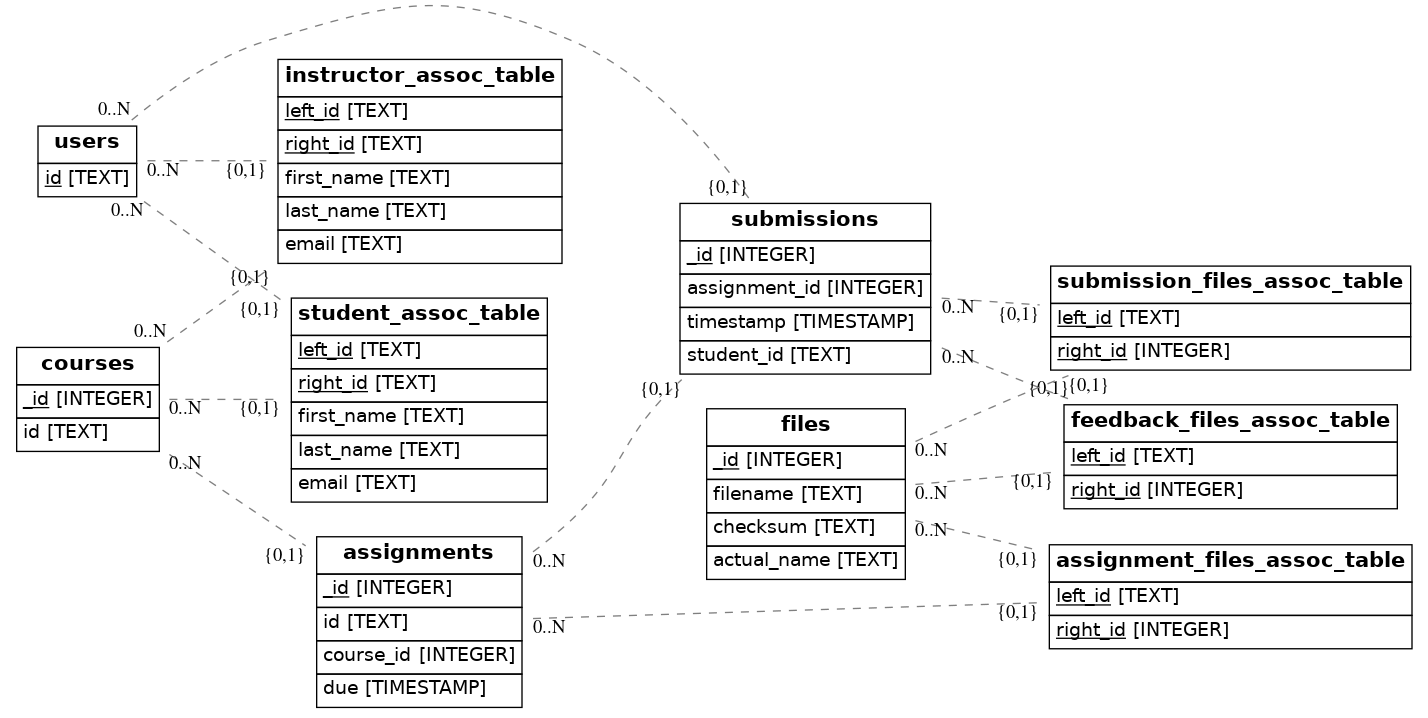
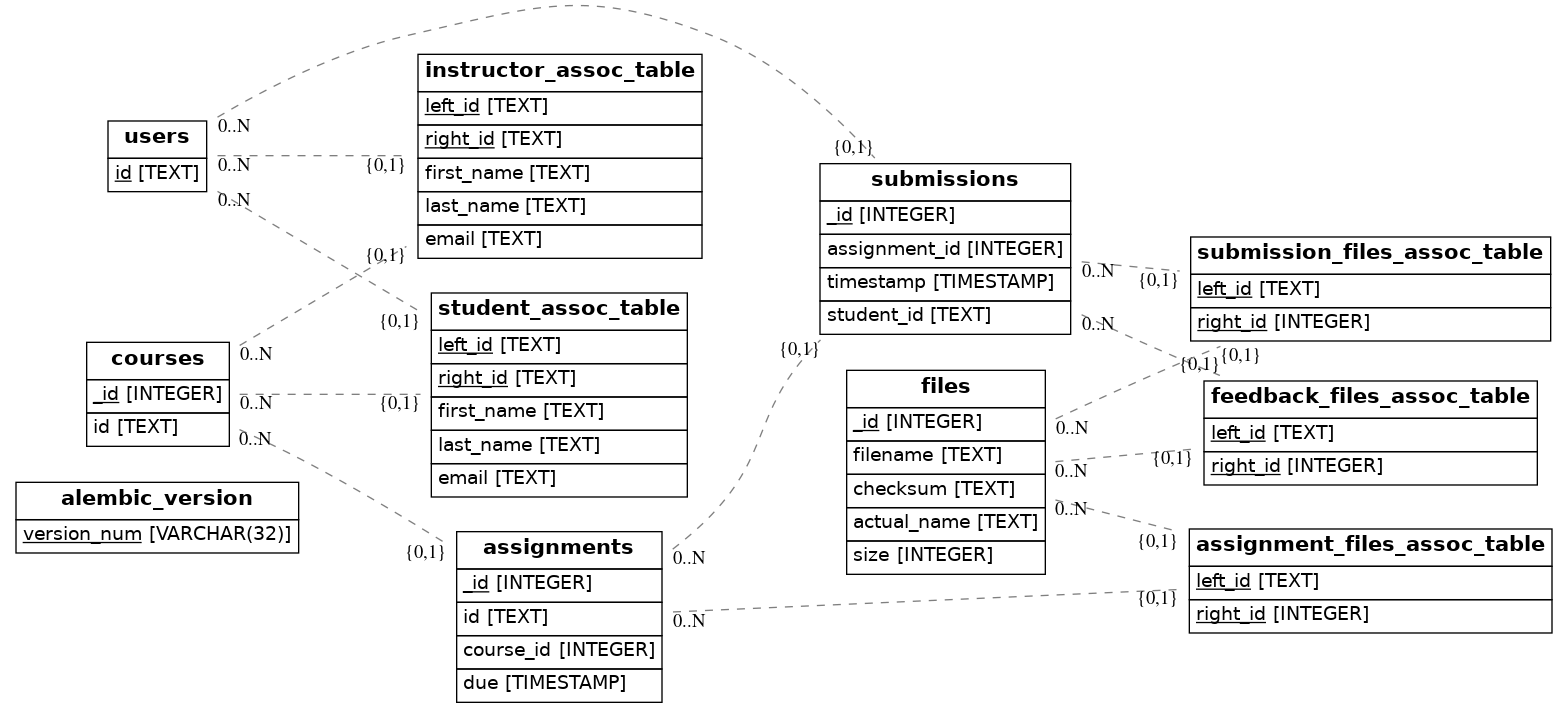
Update ER diagram

diff --git a/docs/contributer_guide/database.rst b/docs/contributer_guide/database.rst
@@ -52,8 +52,9 @@ To generate a graph using `eralchemy <https://pypi.org/project/ERAlchemy/>`_:
 .. code:: bash
 
     pip3 install eralchemy
-    # Use vngshare to create a database at /tmp/ngshare.db
-    eralchemy -i sqlite:////tmp/ngshare.db -o er.png
+    cd ngshare
+    python3 dbutil.py upgrade head
+    eralchemy -i sqlite:////tmp/ngshare.db -o database/er.png
 
 Current Entity Relation diagram (manually maintained)
 ^^^^^^^^^^^^^^^^^^^^^^^^^^^^^^^^^^^^^^^^^^^^^^^^^^^^^
